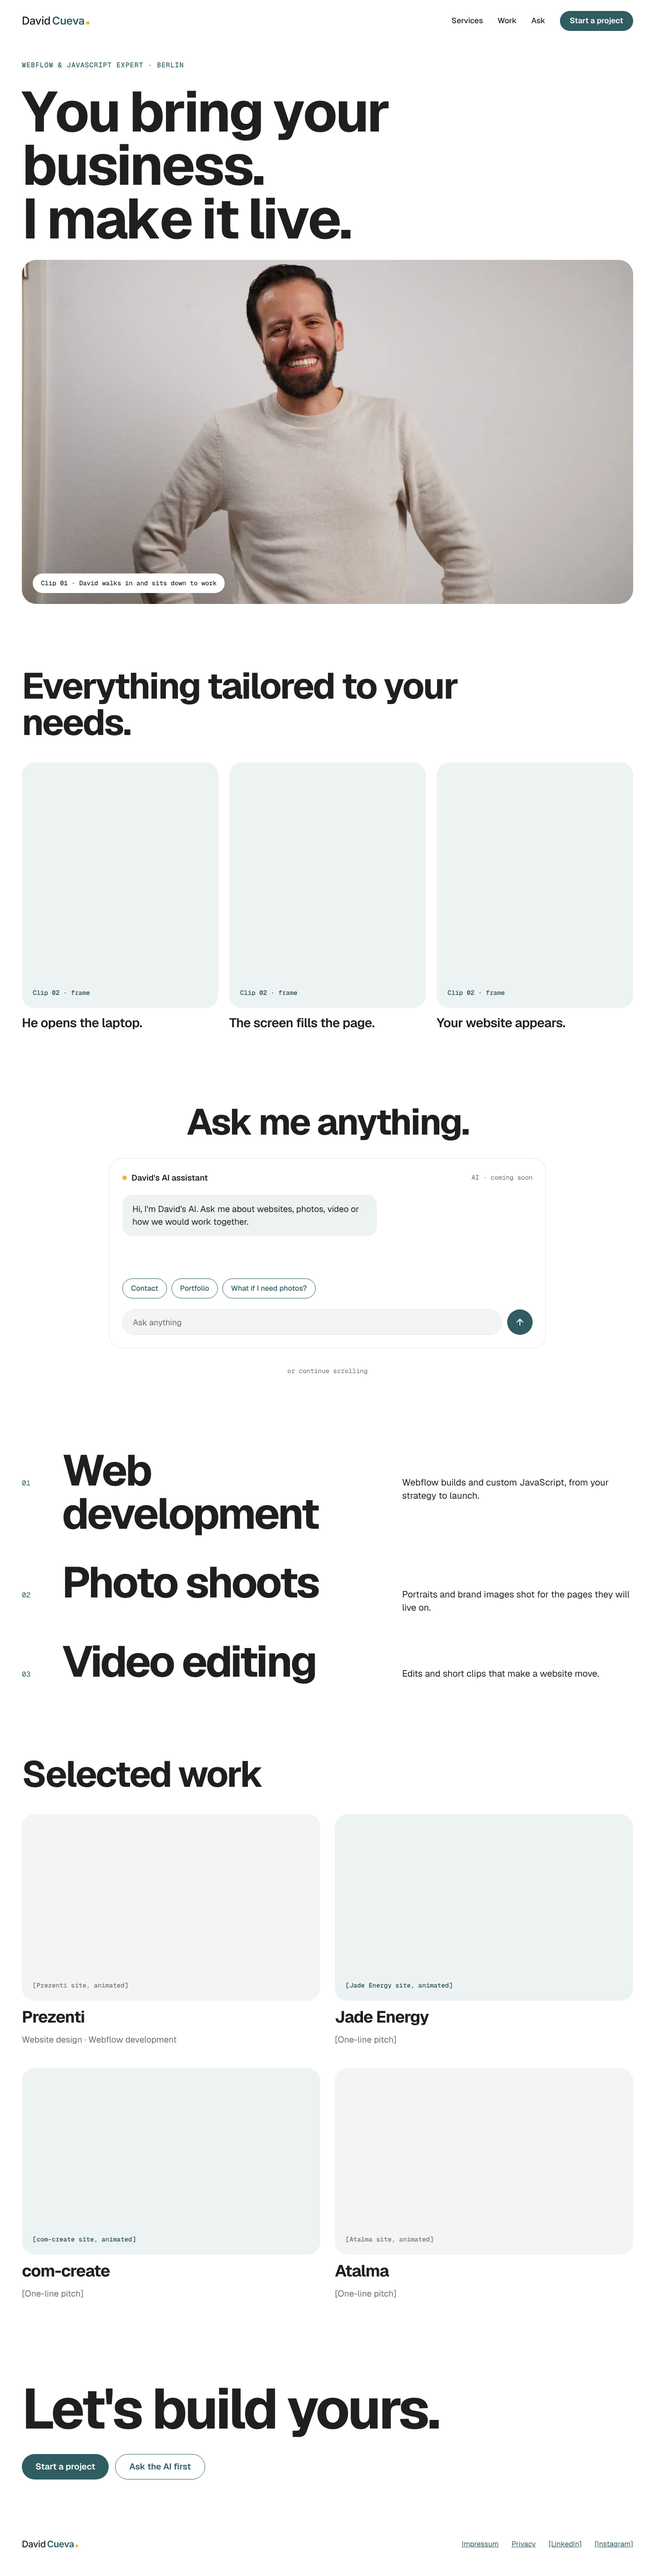
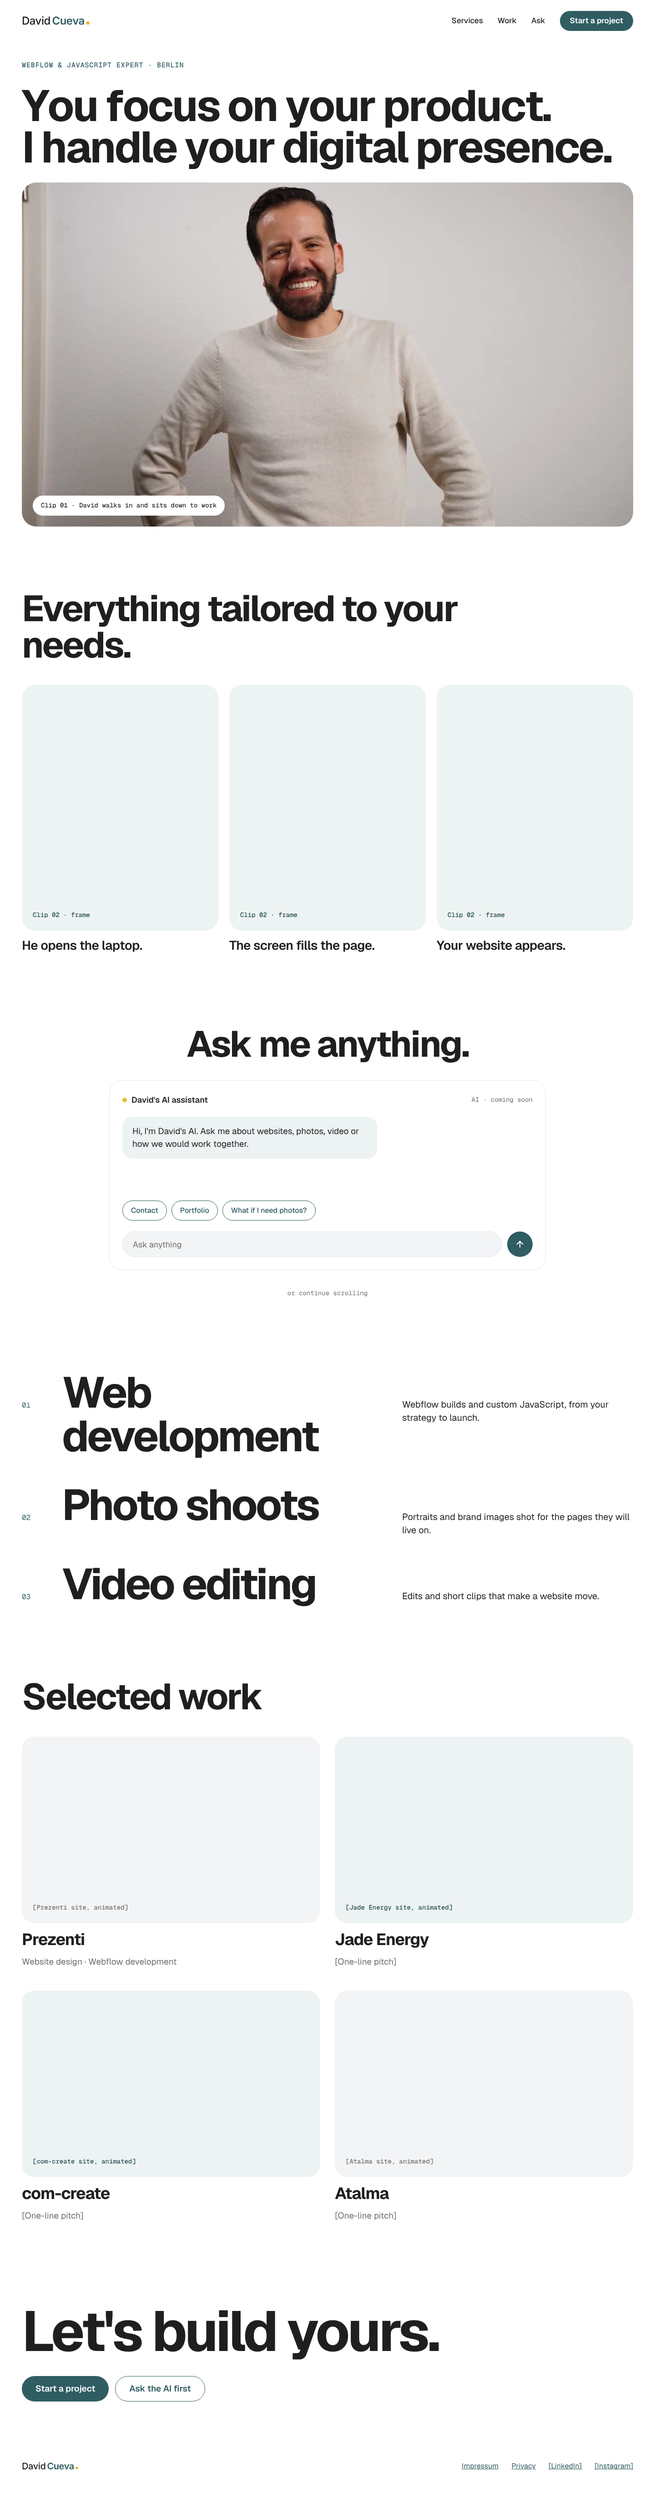
feat: new hero headline, h1 capped at 96 px
"You focus on your product. / I handle your digital presence."
The longer text wrapped to four lines at 1440 and pushed the hero
photo down to 689 px; capping the h1 clamp at 96 px keeps it on two
lines with the photo starting at 401 px.

Claude-Session: https://claude.ai/code/session_018prHFQZQJKHAoXgYLZUusw

diff --git a/src/data/site.ts b/src/data/site.ts
@@ -1,7 +1,7 @@
 export const site = {
   name: 'David Cueva',
   role: 'Webflow & JavaScript expert · Berlin',
-  headline: ['You bring your business.', 'I make it live.'] as [string, string],
+  headline: ['You focus on your product.', 'I handle your digital presence.'] as [string, string],
   statement: 'Everything tailored to your needs.',
   contactHref: '#contact',
 } as const;
